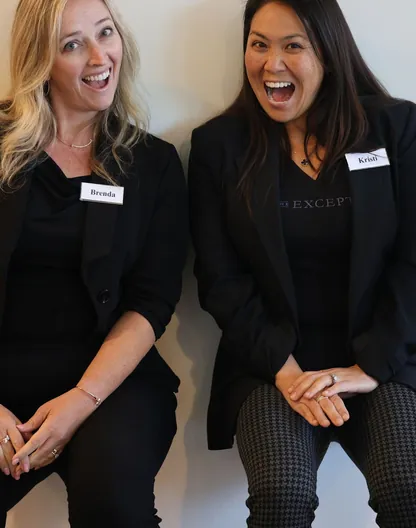
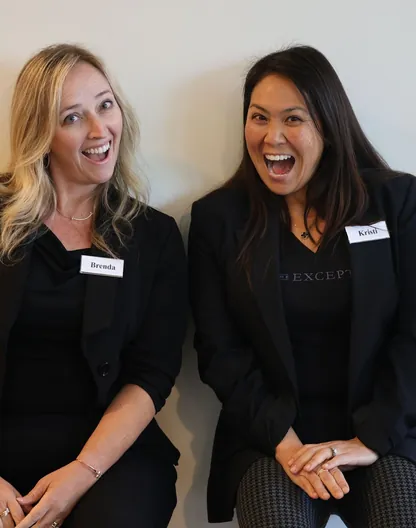
Fix four crops, add the screen frame, drop the second copy of one row
20  slid left to take in the man she is smiling at, whole rather than sliced
  21  zoomed out to the conversation, and her head is no longer cut
  22  crop starts at the top of the frame; their heads had been cut because it
      started below them
  23  the screen frame is in after all. The lamps all sit above 22% of the
      frame, so a crop starting at 23% clears them and still holds the screen
      and the rows in front of it. My earlier read of that frame was wrong.

Removed 11, which was the same two people from the same frame as 18 at a
different zoom.

Fifteen tiles, 401KB, no two of a kind adjacent on either track including
across the seam. Face tiles to v=8; the other assets keep v=7 so they are not
re-fetched.

diff --git a/bmc-private-invitation.html b/bmc-private-invitation.html
@@ -782,38 +782,38 @@ body.bco-open { overflow: hidden; }
 
   <div class="pi-marquee" aria-hidden="true">
     <div class="pi-track">
-      <img src="studio45/face-07.webp?v=7" alt="" loading="lazy" decoding="async" width="416" height="528">
-      <img src="studio45/face-15.webp?v=7" alt="" loading="lazy" decoding="async" width="416" height="528">
-      <img src="studio45/face-20.webp?v=7" alt="" loading="lazy" decoding="async" width="416" height="528">
-      <img src="studio45/face-12.webp?v=7" alt="" loading="lazy" decoding="async" width="416" height="528">
-      <img src="studio45/face-04.webp?v=7" alt="" loading="lazy" decoding="async" width="416" height="528">
-      <img src="studio45/face-21.webp?v=7" alt="" loading="lazy" decoding="async" width="416" height="528">
-      <img src="studio45/face-02.webp?v=7" alt="" loading="lazy" decoding="async" width="416" height="528">
-      <img src="studio45/face-16.webp?v=7" alt="" loading="lazy" decoding="async" width="416" height="528">
-      <img src="studio45/face-07.webp?v=7" alt="" loading="lazy" decoding="async" width="416" height="528">
-      <img src="studio45/face-15.webp?v=7" alt="" loading="lazy" decoding="async" width="416" height="528">
-      <img src="studio45/face-20.webp?v=7" alt="" loading="lazy" decoding="async" width="416" height="528">
-      <img src="studio45/face-12.webp?v=7" alt="" loading="lazy" decoding="async" width="416" height="528">
-      <img src="studio45/face-04.webp?v=7" alt="" loading="lazy" decoding="async" width="416" height="528">
-      <img src="studio45/face-21.webp?v=7" alt="" loading="lazy" decoding="async" width="416" height="528">
-      <img src="studio45/face-02.webp?v=7" alt="" loading="lazy" decoding="async" width="416" height="528">
-      <img src="studio45/face-16.webp?v=7" alt="" loading="lazy" decoding="async" width="416" height="528">
+      <img src="studio45/face-07.webp?v=8" alt="" loading="lazy" decoding="async" width="416" height="528">
+      <img src="studio45/face-15.webp?v=8" alt="" loading="lazy" decoding="async" width="416" height="528">
+      <img src="studio45/face-20.webp?v=8" alt="" loading="lazy" decoding="async" width="416" height="528">
+      <img src="studio45/face-12.webp?v=8" alt="" loading="lazy" decoding="async" width="416" height="528">
+      <img src="studio45/face-04.webp?v=8" alt="" loading="lazy" decoding="async" width="416" height="528">
+      <img src="studio45/face-21.webp?v=8" alt="" loading="lazy" decoding="async" width="416" height="528">
+      <img src="studio45/face-02.webp?v=8" alt="" loading="lazy" decoding="async" width="416" height="528">
+      <img src="studio45/face-16.webp?v=8" alt="" loading="lazy" decoding="async" width="416" height="528">
+      <img src="studio45/face-07.webp?v=8" alt="" loading="lazy" decoding="async" width="416" height="528">
+      <img src="studio45/face-15.webp?v=8" alt="" loading="lazy" decoding="async" width="416" height="528">
+      <img src="studio45/face-20.webp?v=8" alt="" loading="lazy" decoding="async" width="416" height="528">
+      <img src="studio45/face-12.webp?v=8" alt="" loading="lazy" decoding="async" width="416" height="528">
+      <img src="studio45/face-04.webp?v=8" alt="" loading="lazy" decoding="async" width="416" height="528">
+      <img src="studio45/face-21.webp?v=8" alt="" loading="lazy" decoding="async" width="416" height="528">
+      <img src="studio45/face-02.webp?v=8" alt="" loading="lazy" decoding="async" width="416" height="528">
+      <img src="studio45/face-16.webp?v=8" alt="" loading="lazy" decoding="async" width="416" height="528">
     </div>
     <div class="pi-track">
-      <img src="studio45/face-18.webp?v=7" alt="" loading="lazy" decoding="async" width="416" height="528">
-      <img src="studio45/face-22.webp?v=7" alt="" loading="lazy" decoding="async" width="416" height="528">
-      <img src="studio45/face-13.webp?v=7" alt="" loading="lazy" decoding="async" width="416" height="528">
-      <img src="studio45/face-17.webp?v=7" alt="" loading="lazy" decoding="async" width="416" height="528">
-      <img src="studio45/face-11.webp?v=7" alt="" loading="lazy" decoding="async" width="416" height="528">
-      <img src="studio45/face-05.webp?v=7" alt="" loading="lazy" decoding="async" width="416" height="528">
-      <img src="studio45/face-03.webp?v=7" alt="" loading="lazy" decoding="async" width="416" height="528">
-      <img src="studio45/face-18.webp?v=7" alt="" loading="lazy" decoding="async" width="416" height="528">
-      <img src="studio45/face-22.webp?v=7" alt="" loading="lazy" decoding="async" width="416" height="528">
-      <img src="studio45/face-13.webp?v=7" alt="" loading="lazy" decoding="async" width="416" height="528">
-      <img src="studio45/face-17.webp?v=7" alt="" loading="lazy" decoding="async" width="416" height="528">
-      <img src="studio45/face-11.webp?v=7" alt="" loading="lazy" decoding="async" width="416" height="528">
-      <img src="studio45/face-05.webp?v=7" alt="" loading="lazy" decoding="async" width="416" height="528">
-      <img src="studio45/face-03.webp?v=7" alt="" loading="lazy" decoding="async" width="416" height="528">
+      <img src="studio45/face-18.webp?v=8" alt="" loading="lazy" decoding="async" width="416" height="528">
+      <img src="studio45/face-22.webp?v=8" alt="" loading="lazy" decoding="async" width="416" height="528">
+      <img src="studio45/face-13.webp?v=8" alt="" loading="lazy" decoding="async" width="416" height="528">
+      <img src="studio45/face-17.webp?v=8" alt="" loading="lazy" decoding="async" width="416" height="528">
+      <img src="studio45/face-23.webp?v=8" alt="" loading="lazy" decoding="async" width="416" height="528">
+      <img src="studio45/face-05.webp?v=8" alt="" loading="lazy" decoding="async" width="416" height="528">
+      <img src="studio45/face-03.webp?v=8" alt="" loading="lazy" decoding="async" width="416" height="528">
+      <img src="studio45/face-18.webp?v=8" alt="" loading="lazy" decoding="async" width="416" height="528">
+      <img src="studio45/face-22.webp?v=8" alt="" loading="lazy" decoding="async" width="416" height="528">
+      <img src="studio45/face-13.webp?v=8" alt="" loading="lazy" decoding="async" width="416" height="528">
+      <img src="studio45/face-17.webp?v=8" alt="" loading="lazy" decoding="async" width="416" height="528">
+      <img src="studio45/face-23.webp?v=8" alt="" loading="lazy" decoding="async" width="416" height="528">
+      <img src="studio45/face-05.webp?v=8" alt="" loading="lazy" decoding="async" width="416" height="528">
+      <img src="studio45/face-03.webp?v=8" alt="" loading="lazy" decoding="async" width="416" height="528">
     </div>
   </div>
 
